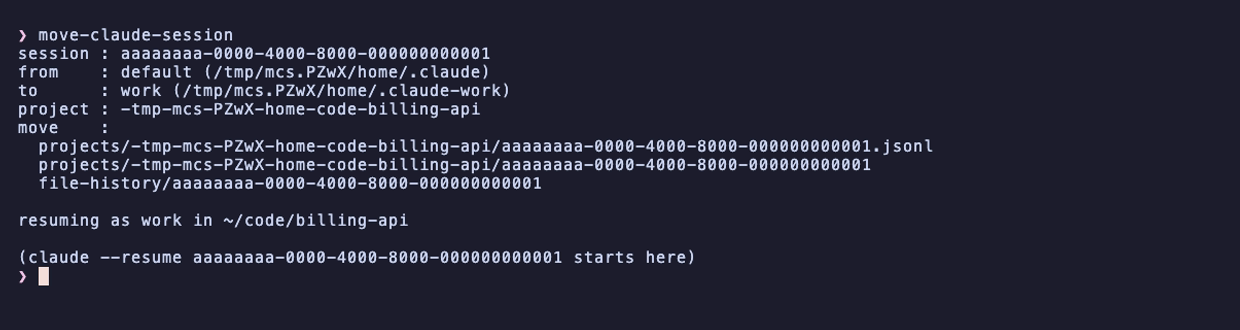
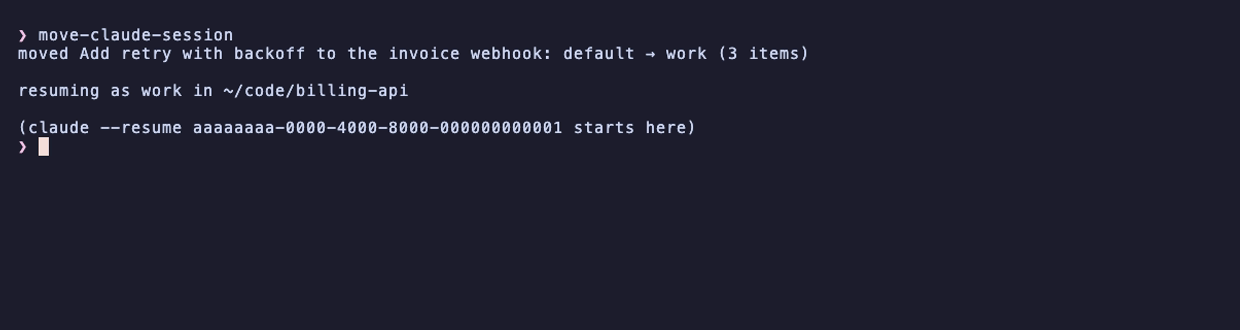
feat: smarter account step, one-line move output, drop --copy (#3)
Merged on Sam's standing instruction for this repo (self-review and merge). Self-reviewed; CI green on 75717cc: macOS 3.9, macOS 3.13, Ubuntu 3.13.

Changed region(s): [[0.0, 0.1212, 0.7661, 0.5758], [0.0, 0.7576, 0.5516, 0.8788], [0.0, 0.6364, 0.3371, 0.697]]

diff --git a/tests/test_e2e.py b/tests/test_e2e.py
@@ -234,6 +234,37 @@ class E2E(unittest.TestCase):
         self.assertIsNotNone(self.transcript(".claude", S[1]))
         self.assertFalse(os.path.exists(os.path.join(self.home, "launched")))
 
+    def test_single_target_skips_the_account_step(self):
+        shutil.rmtree(os.path.join(self.home, ".claude-client"))   # now: default, work
+        code, out = self.run_picker([("which session", ENTER)])
+        self.assertEqual(code, 0, out)
+        self.assertNotIn("which account", out)
+        self.assertIsNotNone(self.transcript(".claude-work", S[1]), out)
+
+    def test_account_step_preselects_the_last_target(self):
+        code, out = self.run_picker([("which session", ENTER),               # S1
+                                     ("which account", DOWN + ENTER)])       # work
+        self.assertEqual(code, 0, out)
+        code, out = self.run_picker([("which session", b"monthly"),          # S6, default
+                                     ("1/", ENTER),
+                                     ("which account", ENTER)])
+        self.assertEqual(code, 0, out)
+        self.assertIsNotNone(self.transcript(".claude-work", S[6]), out)
+
+    def test_a_move_prints_one_summary_line_and_dry_run_lists_files(self):
+        r = self.run_cli(S[4], "work")
+        self.assertEqual(r.returncode, 0, r.stderr)
+        self.assertIn("moved /review the fish prompt changes: default → work (3 items)", r.stdout)
+        self.assertNotIn("file-history", r.stdout)
+        r = self.run_cli(S[2], "default", "-n")
+        self.assertIn("file-history", r.stdout)
+        self.assertIn("dry run", r.stdout)
+
+    def test_copy_option_is_gone(self):
+        r = self.run_cli(S[4], "work", "--copy")
+        self.assertEqual(r.returncode, 1)
+        self.assertIn("unknown option: --copy", r.stderr)
+
     # ------------------------------------------------------------ direct CLI
 
     def test_cli_moves_by_id_and_prints_resume_command(self):

diff --git a/README.md b/README.md
@@ -42,7 +42,7 @@ move-claude-session
 ```
 
 1. Pick the session. The one you just quit is on top and already selected.
-2. Pick the account to move it to.
+2. Pick the account to move it to. The one you moved to last time is preselected, and with only one other account this step is skipped.
 
 It moves the session, `cd`s into the session's project directory, and resumes it under the new account.
 
@@ -79,12 +79,11 @@ The title on each row is the one Claude Code puts on the terminal tab: your `/re
 move-claude-session <session-id> <account>
 ```
 
-This moves the session and prints the command to resume it.
+This moves the session and prints the command to resume it. Add `-n` to see every file that would move.
 
 | Option | Effect |
 |---|---|
 | `-n`, `--dry-run` | Show what would move. Change nothing. |
-| `--copy` | Leave the original in place. |
 | `--force` | Overwrite files already at the destination, and move a session that is still running. |
 | `--list` | Print the picker's rows, with session IDs and groups, and exit. |
 
